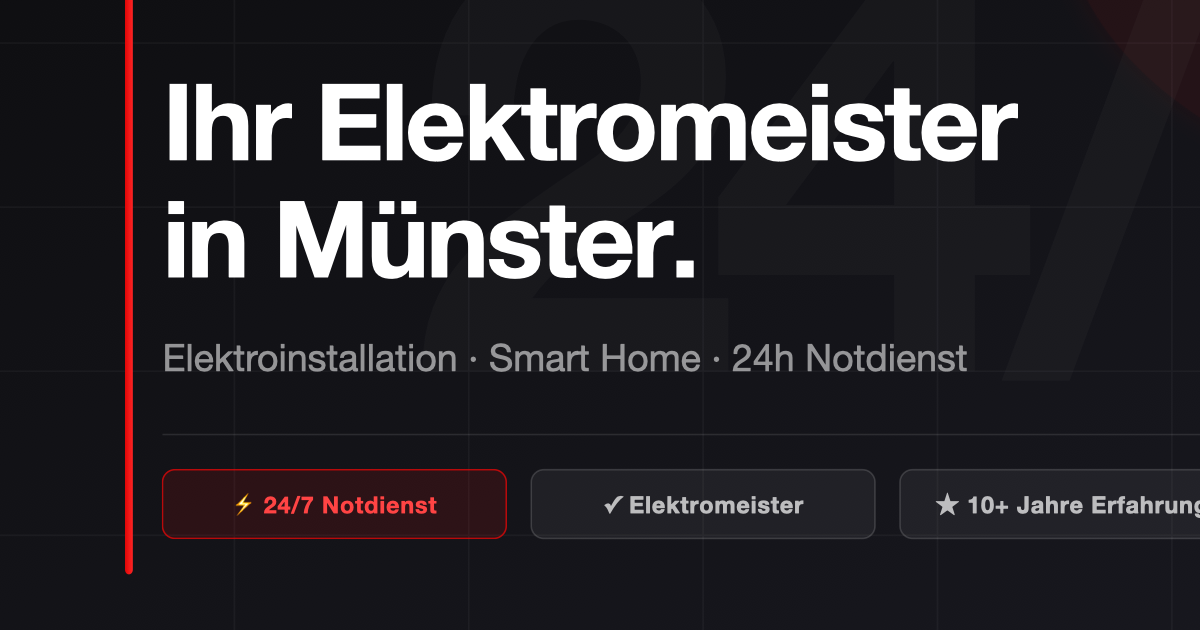
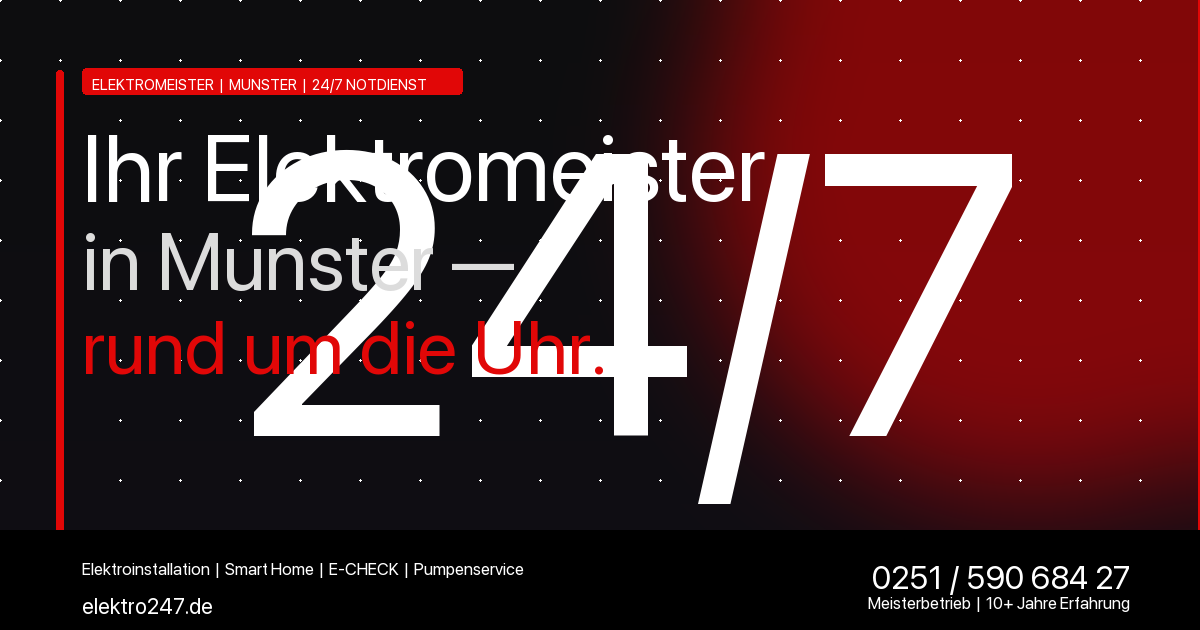
Redesign OG preview image, fix iMessage link URL
- New bold 1200x630 og-preview.png: dark/red, large 24/7 ghost text
- og:image and twitter:image now point to GitHub Pages URL

diff --git a/index.html b/index.html
@@ -17,7 +17,7 @@
   <meta property="og:url" content="https://www.elektro247.de/">
   <meta property="og:site_name" content="Elektro 24/7">
   <meta property="og:locale" content="de_DE">
-  <meta property="og:image" content="https://www.elektro247.de/images/og-preview.png">
+  <meta property="og:image" content="https://kle-dev.github.io/elektro247-website/images/og-preview.png">
   <meta property="og:image:width" content="1200">
   <meta property="og:image:height" content="630">
   <meta property="og:image:alt" content="Elektro 24/7 — Ihr Elektromeister in Münster">
@@ -26,7 +26,7 @@
   <meta name="twitter:card" content="summary_large_image">
   <meta name="twitter:title" content="Elektro 24/7 — Ihr Elektromeister in Münster">
   <meta name="twitter:description" content="Professionelle Elektroinstallation, Smart Home & 24/7 Notdienst in Münster.">
-  <meta name="twitter:image" content="https://www.elektro247.de/images/og-preview.png">
+  <meta name="twitter:image" content="https://kle-dev.github.io/elektro247-website/images/og-preview.png">
 
   <!-- Favicon -->
   <link rel="icon" type="image/png" href="favicon.png">
